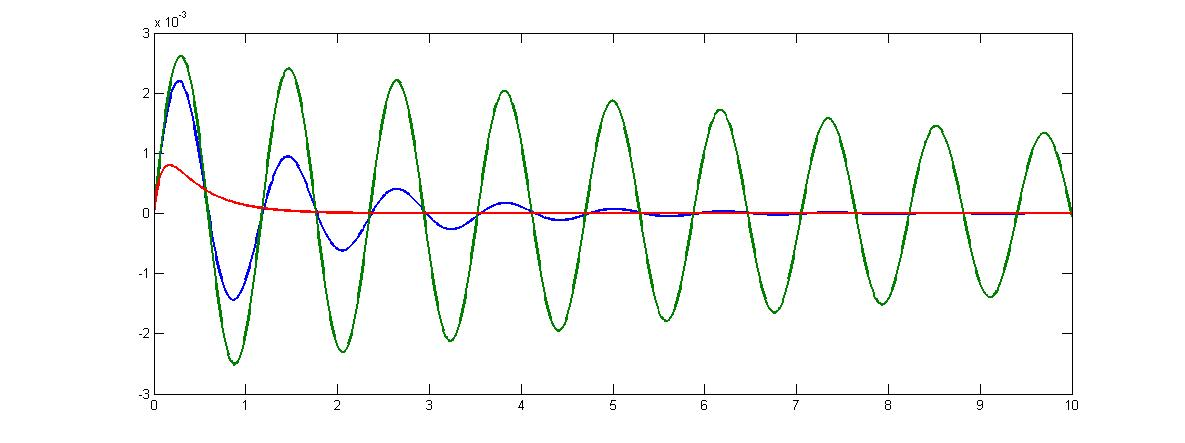
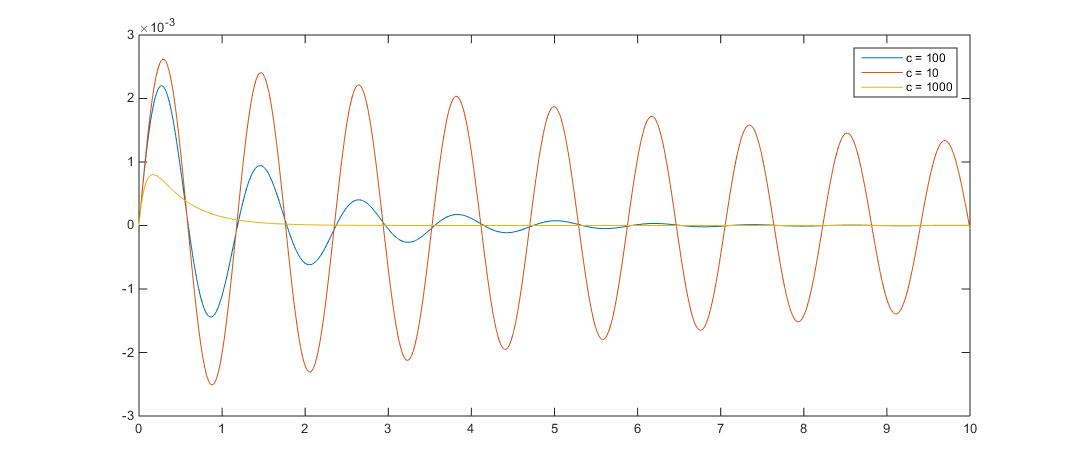
Fix av bilder

diff --git a/FleraStegsvar.m b/FleraStegsvar.m
@@ -2,33 +2,23 @@ function FleraStegsvar( )
 %FLERAIMPULSSVAR Summary of this function goes here
 %   Detailed explanation goes here
 %
-%y = 1./(w*m).*(1 - cos(w.*t).*exp(-a.*t) -
-%a./w.*sin(w.*t).*exp(-a.*t))./(w + ((a.^2)./w)); FEL!!!
 
 k = 2000;
 c = 100;
 m = 70;
 
-w = sqrt(-(c/(2*m))^2 + (k/m));
-a = c/(2*m);
-
 t = linspace(0,10,1000);
 
-y = (1./(w.^2 + a.^2)) * (1 - cos(w.*t).*exp(-a.*t) - (a./w^2).*sin(w*t).*exp(-a.*t));
-
+y = (1./(sqrt((4.*m.*k-c.*c)./4)).*exp(-c/(2.*m).*t).*sin(sqrt((4.*m.*k-c.*c)./(4.*m.^2)).*t));
 hFig = figure(1);
 set(hFig, 'Position', [0,0,700,400]);
 
 c = 10;
-w = sqrt(-(c/(2*m))^2 + (k/m));
-a = c/(2*m);
-u = (1./(w.^2 + a.^2)) * (1 - cos(w.*t).*exp(-a.*t) - (a./w^2).*sin(w*t).*exp(-a.*t));
+u = (1./(sqrt((4.*m.*k-c.*c)./4)).*exp(-c/(2.*m).*t).*sin(sqrt((4.*m.*k-c.*c)./(4.*m.^2)).*t));
 
 
 c = 1000;
-w = sqrt(-(c/(2*m))^2 + (k/m));
-a = c/(2*m);
-v = (1./(w.^2 + a.^2)) * (1 - cos(w.*t).*exp(-a.*t) - (a./w^2).*sin(w*t).*exp(-a.*t));
+v = (1./(sqrt((4.*m.*k-c.*c)./4)).*exp(-c/(2.*m).*t).*sin(sqrt((4.*m.*k-c.*c)./(4.*m.^2)).*t));
 plot(t,y,t,u,t,v);
 
 
